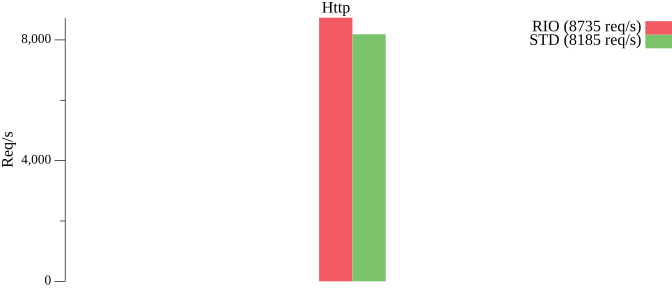
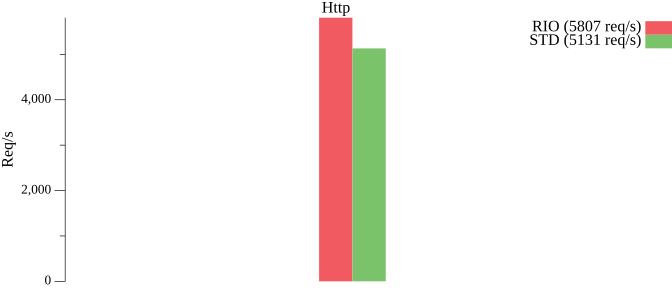
mod

diff --git a/benchmark/echo-rio/bench/main.go b/benchmark/echo-rio/bench/main.go
@@ -10,11 +10,12 @@ import (
 
 func main() {
 	/*
+		------ Benchmark ------
 		Port: 9000
-		Workers: 5
-		Count: 2000
+		Workers: 10
+		Count: 1000
 		NBytes: 1024
-		ECHO-RIO benching complete(1.851019125s): 8907 conn/sec, 8.7M inbounds/sec, 8.7M outbounds/sec, 0 failures
+		ECHO-RIO benching complete(1.675918093s): 5966 conn/sec, 5.8M inbounds/sec, 5.8M outbounds/sec, 0 failures
 	*/
 	var (
 		port    int
@@ -24,8 +25,8 @@ func main() {
 	)
 
 	flag.IntVar(&port, "port", 9000, "server port")
-	flag.IntVar(&workers, "workers", 5, "workers")
-	flag.IntVar(&count, "count", 2000, "count")
+	flag.IntVar(&workers, "workers", 10, "workers")
+	flag.IntVar(&count, "count", 1000, "count")
 	flag.IntVar(&nBytes, "nBytes", 1024, "nBytes")
 	flag.Parse()
 

diff --git a/benchmark/echo-std/bench/main.go b/benchmark/echo-std/bench/main.go
@@ -10,11 +10,12 @@ import (
 
 func main() {
 	/*
+		------ Benchmark ------
 		Port: 9000
-		Workers: 5
-		Count: 2000
+		Workers: 10
+		Count: 1000
 		NBytes: 1024
-		ECHO-STD benching complete(1.280013825s): 7940 conn/sec, 7.8M inbounds/sec, 7.8M outbounds/sec, 0 failures
+		ECHO-STD benching complete(2.000461253s): 4998 conn/sec, 4.9M inbounds/sec, 4.9M outbounds/sec, 0 failures
 	*/
 	var (
 		port    int
@@ -24,8 +25,8 @@ func main() {
 	)
 
 	flag.IntVar(&port, "port", 9000, "server port")
-	flag.IntVar(&workers, "workers", 5, "workers")
-	flag.IntVar(&count, "count", 2000, "count")
+	flag.IntVar(&workers, "workers", 10, "workers")
+	flag.IntVar(&count, "count", 1000, "count")
 	flag.IntVar(&nBytes, "nBytes", 1024, "nBytes")
 	flag.Parse()
 

diff --git a/benchmark/metric/metric.go b/benchmark/metric/metric.go
@@ -52,13 +52,13 @@ func (m *Metric) CostDuration() time.Duration {
 }
 
 func (m *Metric) PerSecond() (actions uint64, inbounds uint64, outbounds uint64) {
-	sec := uint64(m.end.Sub(m.beg).Seconds())
+	sec := m.end.Sub(m.beg).Seconds()
 	if sec < 1 {
 		sec = 1
 	}
-	actions = m.actions.Load() / sec
-	inbounds = m.inbounds.Load() / sec
-	outbounds = m.outbounds.Load() / sec
+	actions = uint64(float64(m.actions.Load()) / sec)
+	inbounds = uint64(float64(m.inbounds.Load()) / sec)
+	outbounds = uint64(float64(m.outbounds.Load()) / sec)
 	return
 }
 

diff --git a/benchmark/main.go b/benchmark/main.go
@@ -26,8 +26,8 @@ func main() {
 	)
 
 	flag.IntVar(&port, "port", 9000, "server port")
-	flag.IntVar(&workers, "workers", 5, "workers")
-	flag.IntVar(&count, "count", 2000, "count")
+	flag.IntVar(&workers, "workers", 10, "workers")
+	flag.IntVar(&count, "count", 1000, "count")
 	flag.IntVar(&nBytes, "nBytes", 1024, "nBytes")
 	flag.Parse()
 

diff --git a/benchmark/http-rio/http.go b/benchmark/http-rio/http.go
@@ -93,6 +93,7 @@ func dial(workers int, count int, port int, nBytes int) {
 				resp, postErr := http.Post(fmt.Sprintf("http://127.0.0.1:%d", port), "application/text", bytes.NewBuffer(b))
 				if postErr != nil {
 					time.Sleep(10 * time.Microsecond)
+					j--
 					continue
 				}
 				_ = resp.Body.Close()

diff --git a/benchmark/http-std/http.go b/benchmark/http-std/http.go
@@ -92,6 +92,7 @@ func dial(workers int, count int, port int, nBytes int) {
 				resp, postErr := http.Post(fmt.Sprintf("http://127.0.0.1:%d", port), "application/text", bytes.NewBuffer(b))
 				if postErr != nil {
 					time.Sleep(10 * time.Microsecond)
+					j--
 					continue
 				}
 				_ = resp.Body.Close()

diff --git a/benchmark/echo-rio/echo.go b/benchmark/echo-rio/echo.go
@@ -97,6 +97,7 @@ func dial(workers int, count int, port int, nBytes int) {
 				conn, err := net.Dial("tcp", fmt.Sprintf("127.0.0.1:%d", port))
 				if err != nil {
 					time.Sleep(10 * time.Microsecond)
+					j--
 					continue
 				}
 				remain := len(b)

diff --git a/benchmark/echo-std/echo.go b/benchmark/echo-std/echo.go
@@ -95,6 +95,7 @@ func dial(workers int, count int, port int, nBytes int) {
 				conn, err := net.Dial("tcp", fmt.Sprintf("127.0.0.1:%d", port))
 				if err != nil {
 					time.Sleep(10 * time.Microsecond)
+					j--
 					continue
 				}
 				remain := len(b)
